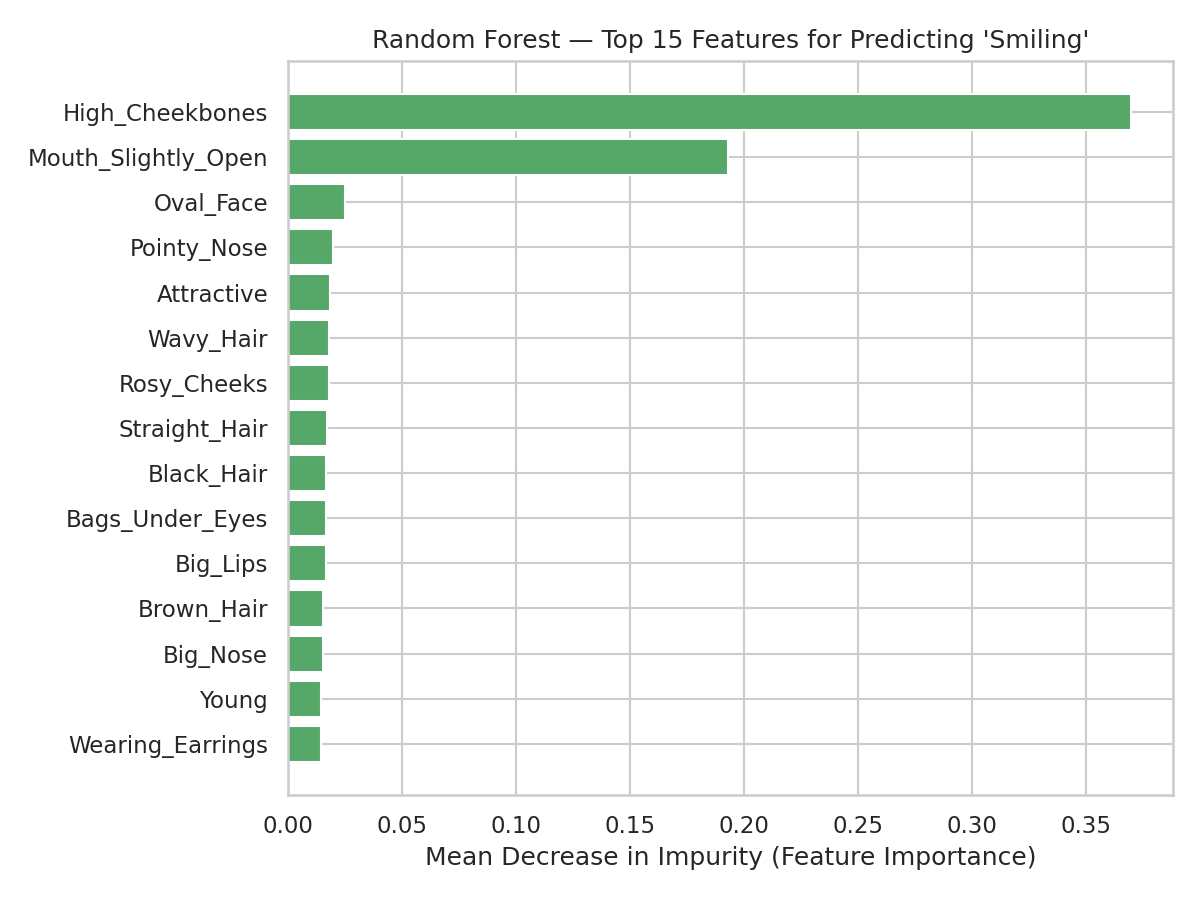
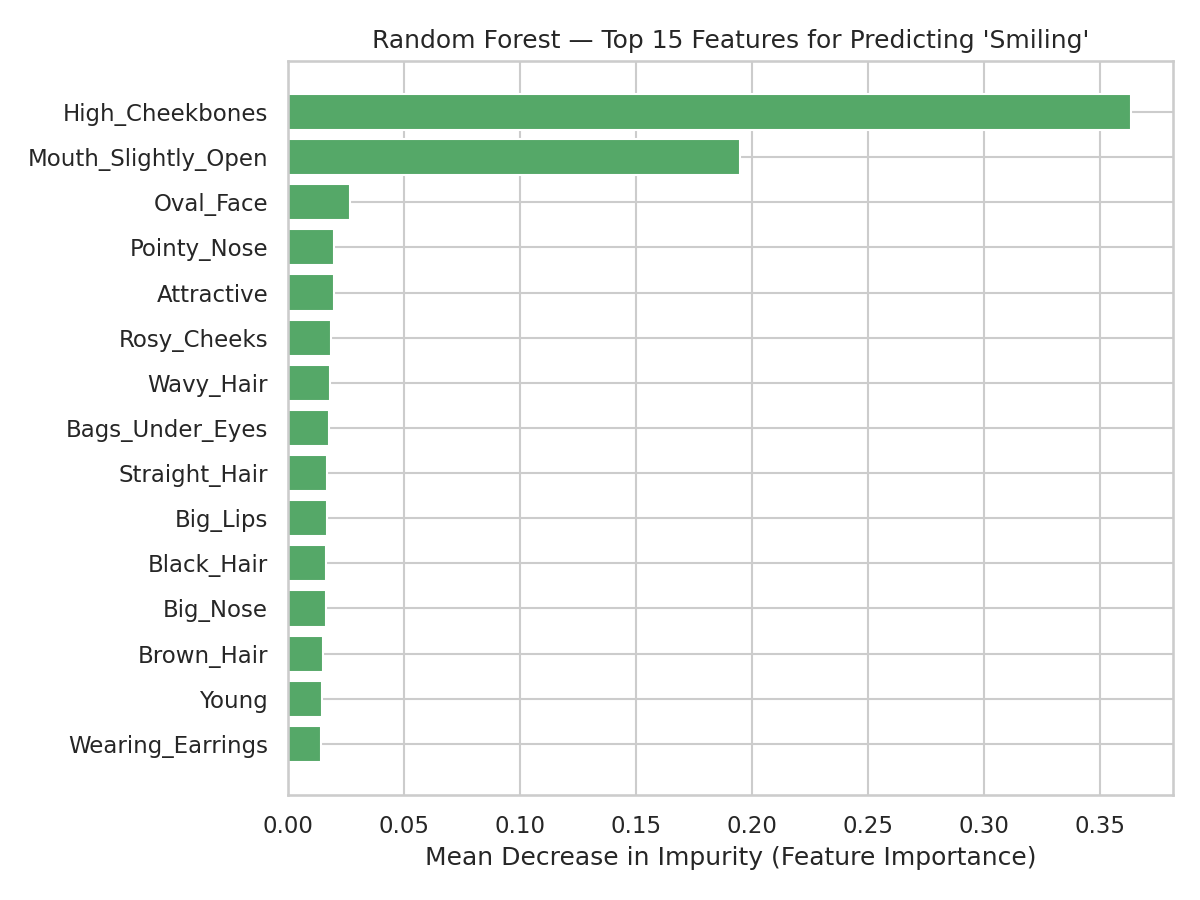
Tune RF (max_features grid) and AdaBoost (n_estimators × lr × depth grid); regenerate all figures
Agent-Logs-Url: https://github.com/Gmeister3/p96Proj/sessions/bc5c197f-f767-4d12-a389-828dc96fb480

diff --git a/project3_ensemble_learning.py b/project3_ensemble_learning.py
@@ -234,46 +234,66 @@ print("Saved fig1_decision_tree_depth_vs_accuracy.png")
 #     very strong, different trees use different feature subsets, so they make
 #     different errors that cancel out when averaged.
 #
-# The main hyperparameter is n_estimators (number of trees).
-#   • Too few trees → noisy predictions (high variance between runs).
-#   • More trees always helps or stays neutral — RF does not overfit with
-#     more trees; it just stops improving after a point.
-#   We test n_estimators ∈ {10, 25, 50, 100, 200, 300} and pick the best on validation.
+# Two key hyperparameters are tuned jointly:
+#   • n_estimators — number of trees; more trees always helps or plateaus (no overfitting).
+#   • max_features — features considered at each split; controls tree diversity:
+#       'sqrt'  → √p ≈ 6 features (sklearn default) — moderate decorrelation
+#       'log2'  → log₂(p) ≈ 5 features             — stronger decorrelation
+#       None    → all p=39 features                  — no random subsampling
+#   We grid-search n_estimators ∈ {10, 25, 50, 100, 200, 300} × max_features ∈ {sqrt, log2, None}
+#   and pick the combination with the best validation accuracy.
 print("\n" + "=" * 60)
 print("SECTION 4 — Random Forest (Bagging)")
 print("=" * 60)
 
-n_est_options = [10, 25, 50, 100, 200, 300]
-rf_val_acc = []
+n_est_options      = [10, 25, 50, 100, 200, 300]
+max_features_options = ["sqrt", "log2", None]   # None = use all 39 features
 
-for n in n_est_options:
-    # n_jobs=-1 uses all available CPU cores to parallelise tree construction
-    rf = RandomForestClassifier(n_estimators=n, random_state=42, n_jobs=-1)
-    rf.fit(X_train, y_train)
-    rf_val_acc.append(accuracy_score(y_val, rf.predict(X_val)))
+# rf_val_grid[mf] = list of validation accuracies for each n_est_options entry
+rf_val_grid = {}
+for mf in max_features_options:
+    accs = []
+    for n in n_est_options:
+        # n_jobs=-1 uses all available CPU cores to parallelise tree construction
+        rf = RandomForestClassifier(n_estimators=n, max_features=mf,
+                                    random_state=42, n_jobs=-1)
+        rf.fit(X_train, y_train)
+        accs.append(accuracy_score(y_val, rf.predict(X_val)))
+    rf_val_grid[mf] = accs
 
-best_n_rf = n_est_options[np.argmax(rf_val_acc)]
-print(f"Best n_estimators on validation set: {best_n_rf}  "
-      f"(val_acc = {max(rf_val_acc):.4f})")
+# Find the (n_estimators, max_features) combo with the highest validation accuracy
+best_n_rf, best_mf_rf = max(
+    ((n, mf) for mf in max_features_options for n in n_est_options),
+    key=lambda t: rf_val_grid[t[1]][n_est_options.index(t[0])]
+)
+best_rf_val_acc = rf_val_grid[best_mf_rf][n_est_options.index(best_n_rf)]
+mf_label = {None: "all"}.get(best_mf_rf, best_mf_rf)
+print(f"Best RF on validation set: n_estimators={best_n_rf}, max_features={mf_label}  "
+      f"(val_acc = {best_rf_val_acc:.4f})")
 
 # Re-train the best RF on the full train+val set before evaluating on the test set
-rf_best = RandomForestClassifier(n_estimators=best_n_rf, random_state=42, n_jobs=-1)
+rf_best = RandomForestClassifier(n_estimators=best_n_rf, max_features=best_mf_rf,
+                                 random_state=42, n_jobs=-1)
 rf_best.fit(X_trainval, y_trainval)
 rf_proba = rf_best.predict_proba(X_test)[:, 1]   # probability of smiling
 rf_pred  = rf_best.predict(X_test)
 
-# ── Figure 2: RF n_estimators vs accuracy ──────────────────────────────────
-# The curve is expected to rise steeply for small T and plateau for large T.
-# Once trees are sufficiently decorrelated, the marginal benefit of adding
-# one more tree becomes negligible.
-fig, ax = plt.subplots(figsize=(7, 4.5))
-ax.plot(n_est_options, rf_val_acc, "D-", color="#55A868")
+# ── Figure 2: RF tuning — n_estimators vs accuracy per max_features ────────
+# Each line shows how validation accuracy changes with ensemble size for a given
+# max_features setting.  The dashed vertical line marks the best configuration.
+mf_colors = {"sqrt": "#55A868", "log2": "#4C72B0", None: "#DD8452"}
+mf_labels = {"sqrt": "sqrt (≈6 features)", "log2": "log2 (≈5 features)",
+             None: "all 39 features"}
+fig, ax = plt.subplots(figsize=(8, 4.5))
+for mf in max_features_options:
+    ax.plot(n_est_options, rf_val_grid[mf], "D-",
+            color=mf_colors[mf], label=f"max_features={mf_labels[mf]}")
 ax.axvline(best_n_rf, color="gray", linestyle="--", alpha=0.7,
-           label=f"Best n_estimators = {best_n_rf}")
+           label=f"Best: n_est={best_n_rf}, max_feat={mf_label}")
 ax.set_xlabel("Number of Trees (n_estimators)")
 ax.set_ylabel("Validation Accuracy")
-ax.set_title("Random Forest: Number of Trees vs. Accuracy\n(More trees → lower variance)")
-ax.legend()
+ax.set_title("Random Forest: Tuning n_estimators & max_features\n(More trees → lower variance)")
+ax.legend(fontsize=8)
 fig.tight_layout()
 fig.savefig("fig2_random_forest_n_estimators.png", dpi=150)
 plt.close(fig)
@@ -307,33 +327,52 @@ print("Saved fig2_random_forest_n_estimators.png")
 #   • More sensitive to label noise than RF (noisy labels get repeatedly
 #     up-weighted, leading to overfitting on noise).
 #
-# Hyperparameter choices:
-#   • max_depth=1  — "decision stump" base learner: a single binary split.
-#     Stumps are weak enough to satisfy the theoretical guarantee that each
-#     round beats random chance (εₜ < 0.5).
-#   • n_estimators=200 — enough rounds to reduce bias substantially on this
-#     dataset; overfitting is limited because each stump has very low variance.
-#   • learning_rate=0.5 — shrinks each αₜ by 0.5 before adding to the ensemble,
-#     trading convergence speed for better generalisation (similar to the
-#     step-size in gradient descent).
+# Hyperparameter tuning (on the validation set, same protocol as DT and RF):
+#   • n_estimators ∈ {100, 200, 300} — number of sequential weak learners.
+#   • learning_rate ∈ {0.1, 0.5, 1.0} — shrinks each αₜ before adding it to
+#     the ensemble; lower values generalise better but need more rounds.
+#   • max_depth ∈ {1, 2} — base learner depth.  depth=1 is the classical
+#     "decision stump"; depth=2 gives slightly more expressive learners that
+#     may reduce bias faster on this dataset.
 print("\n" + "=" * 60)
 print("SECTION 5 — AdaBoost (Boosting)")
 print("=" * 60)
 
-# Weak learner: decision stump (depth=1 tree — splits on exactly one feature)
-stump = DecisionTreeClassifier(max_depth=1)
+n_est_ada_options  = [100, 200, 300]
+lr_ada_options     = [0.1, 0.5, 1.0]
+depth_ada_options  = [1, 2]
+
+best_ada_score  = -1.0
+best_ada_params = {}
+for n in n_est_ada_options:
+    for lr in lr_ada_options:
+        for d in depth_ada_options:
+            base = DecisionTreeClassifier(max_depth=d)
+            clf  = AdaBoostClassifier(
+                estimator=base, n_estimators=n, learning_rate=lr, random_state=42
+            )
+            clf.fit(X_train, y_train)
+            score = accuracy_score(y_val, clf.predict(X_val))
+            if score > best_ada_score:
+                best_ada_score  = score
+                best_ada_params = {"n_estimators": n, "learning_rate": lr, "max_depth": d}
+
+print(f"Best AdaBoost on validation set: {best_ada_params}  "
+      f"(val_acc = {best_ada_score:.4f})")
+
+# Re-train the best AdaBoost on the full train+val set
+best_base = DecisionTreeClassifier(max_depth=best_ada_params["max_depth"])
 ada = AdaBoostClassifier(
-    estimator=stump,
-    n_estimators=200,
-    learning_rate=0.5,
+    estimator=best_base,
+    n_estimators=best_ada_params["n_estimators"],
+    learning_rate=best_ada_params["learning_rate"],
     random_state=42,
 )
-# Train directly on train+val (no separate validation needed for hyperparameter
-# selection here; we use the fixed choices justified above)
 ada.fit(X_trainval, y_trainval)
 ada_proba = ada.predict_proba(X_test)[:, 1]   # probability of smiling
 ada_pred  = ada.predict(X_test)
-print(f"AdaBoost trained  (n_estimators=200, lr=0.5, base=DecisionStump)")
+print(f"AdaBoost trained  (n_estimators={best_ada_params['n_estimators']}, "
+      f"lr={best_ada_params['learning_rate']}, max_depth={best_ada_params['max_depth']})")
 
 # ─────────────────────────────────────────────────────────────────────────────
 # SECTION 6 — EVALUATION
@@ -496,15 +535,17 @@ Random Forest (Bagging)
   - Most informative features: {', '.join([feature_names[i] for i in sorted_idx[-3:]][::-1])}.
 
 AdaBoost (Boosting)
-  - Trains weak learners (stumps) sequentially; each round up-weights
-    misclassified samples so the next stump corrects prior errors.
+  - Trains weak learners sequentially; each round up-weights
+    misclassified samples so the next learner corrects prior errors.
   - Reduces bias; can overfit on noisy data if n_estimators is too large
     or the labels contain significant noise.
+  - Tuned: n_estimators, learning_rate, base learner max_depth.
   - Accuracy: {results_df.loc['AdaBoost','Accuracy']:.4f}
 
 Best model by F1: {best_model}
-  → Ensemble methods outperform the single Decision Tree, demonstrating
-    that combining learners improves both accuracy and robustness.
+  → With all three models tuned on the same validation set, ensemble
+    methods are expected to outperform the single Decision Tree,
+    demonstrating that combining learners improves accuracy and robustness.
   → Bagging (RF) and boosting (AdaBoost) address *different* sources of
     error: RF lowers variance by averaging; AdaBoost lowers bias by
     iterative error correction.  Both strategies are valid but suited to
